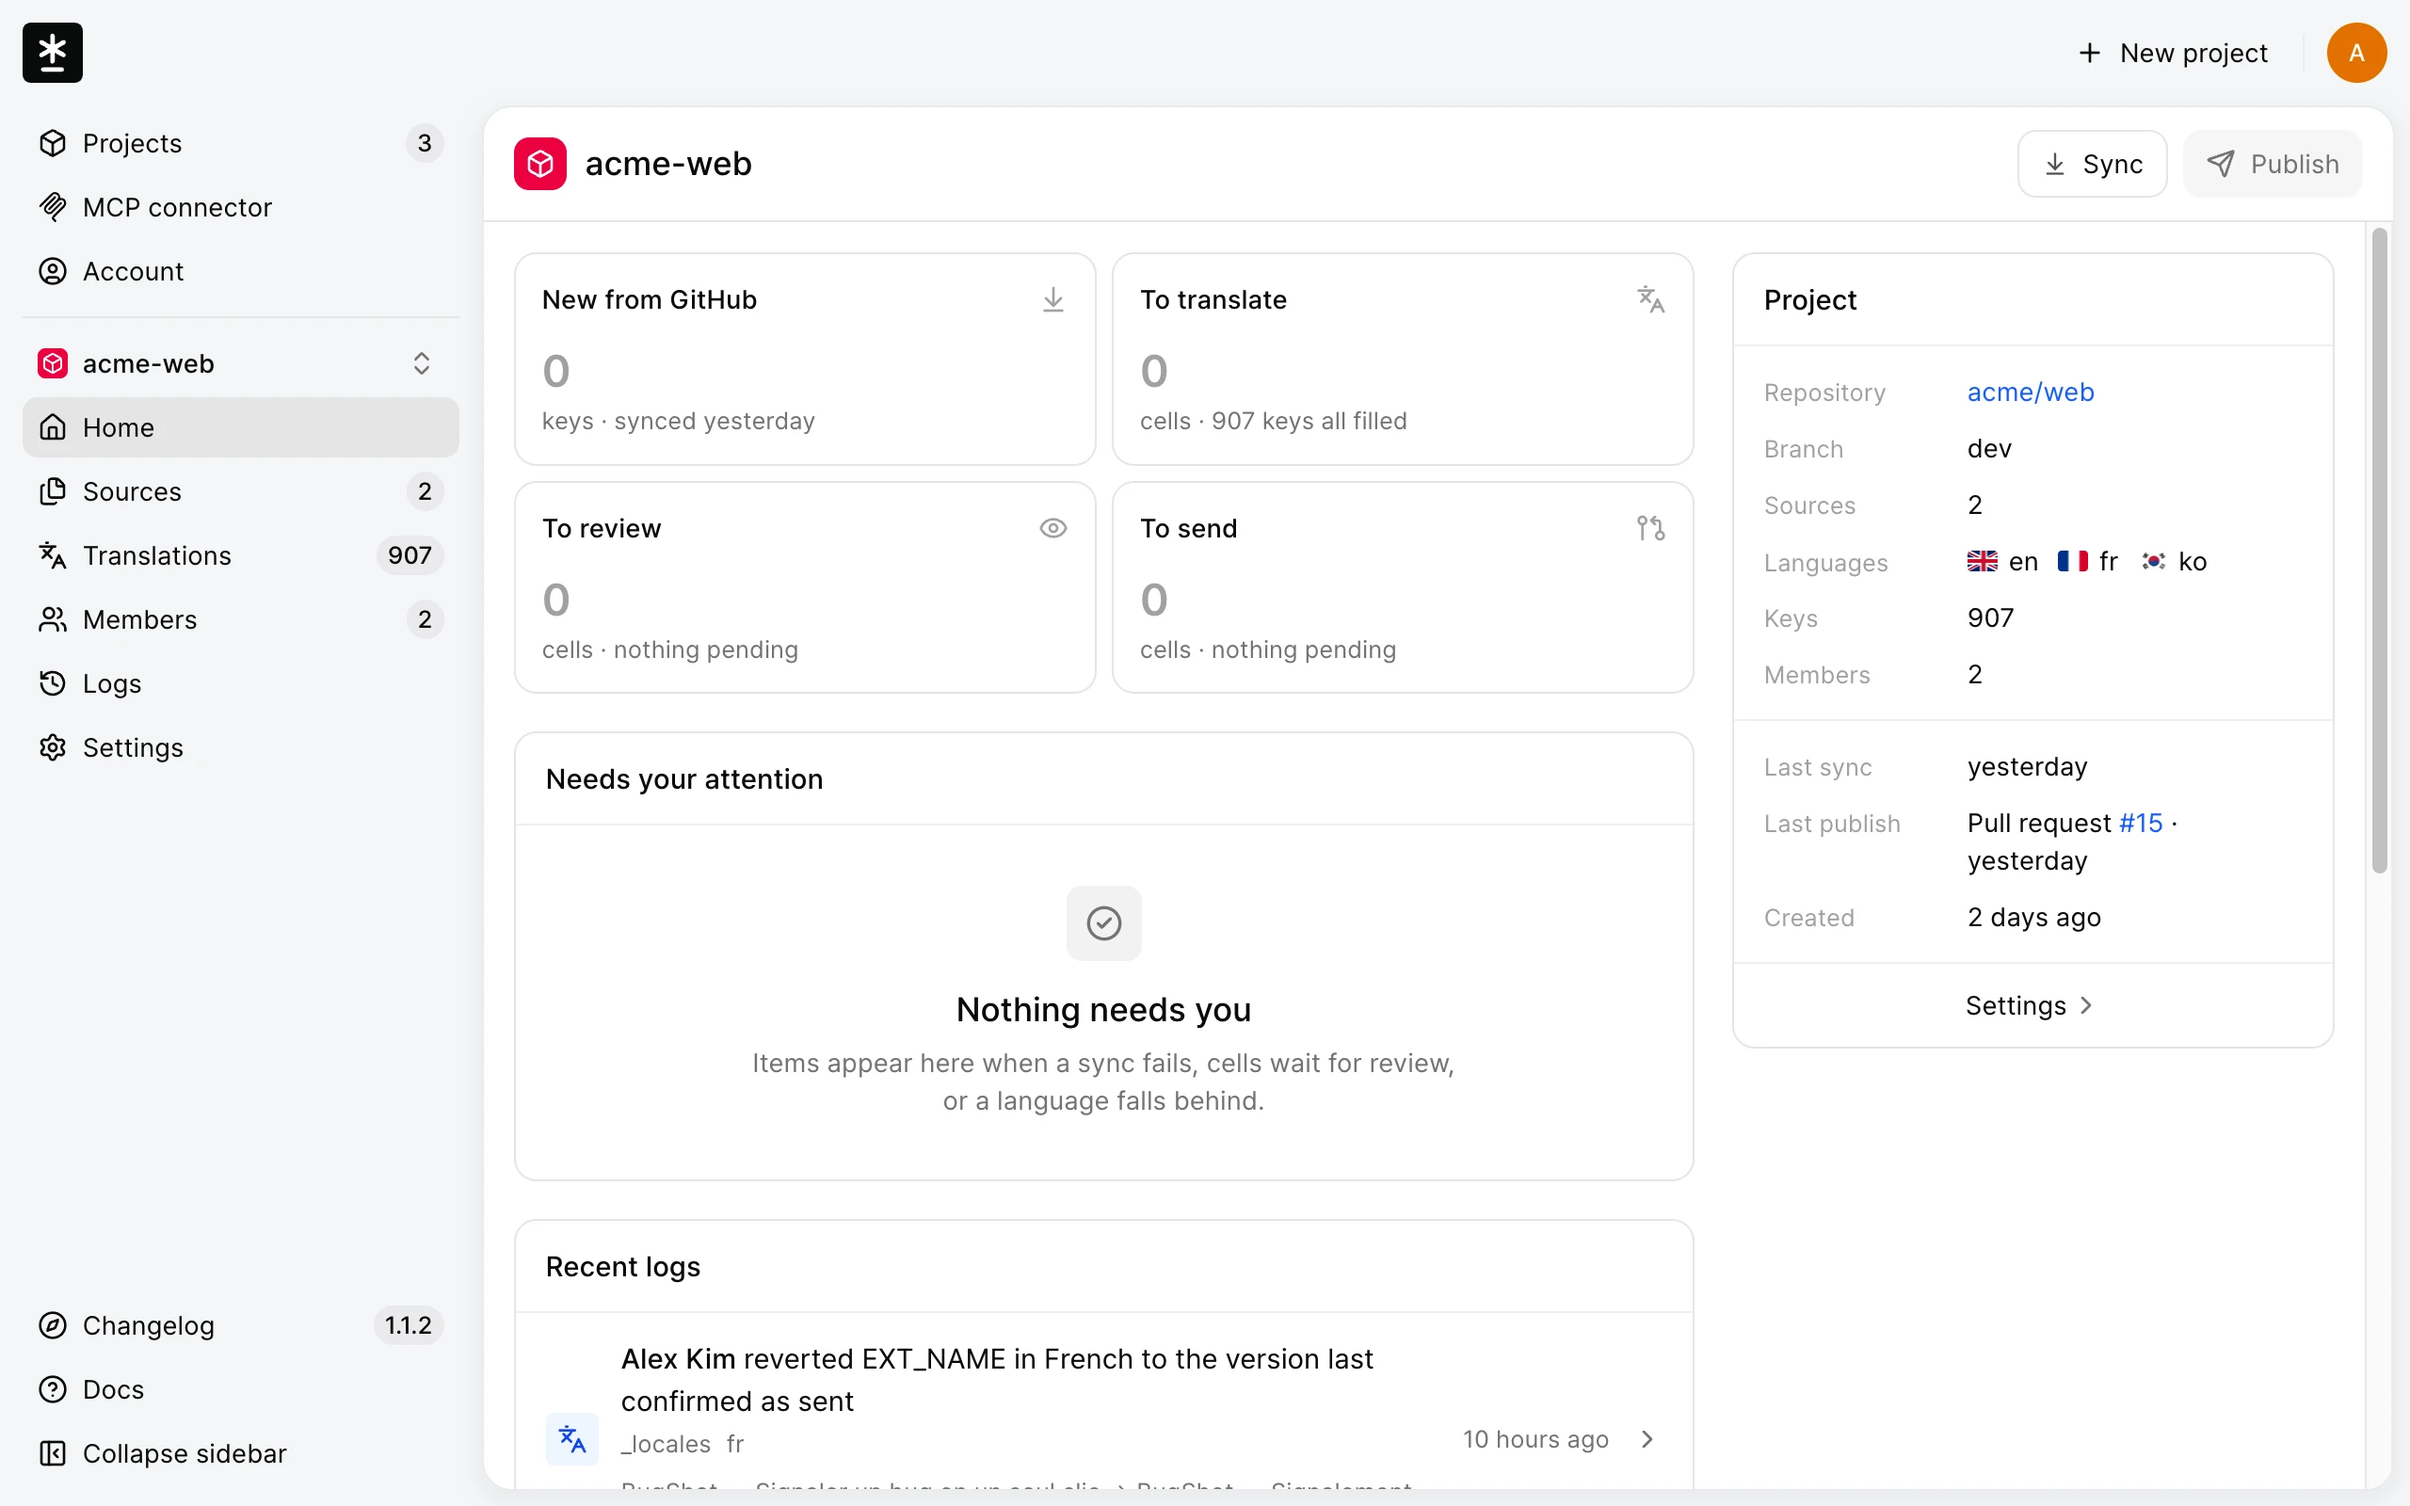
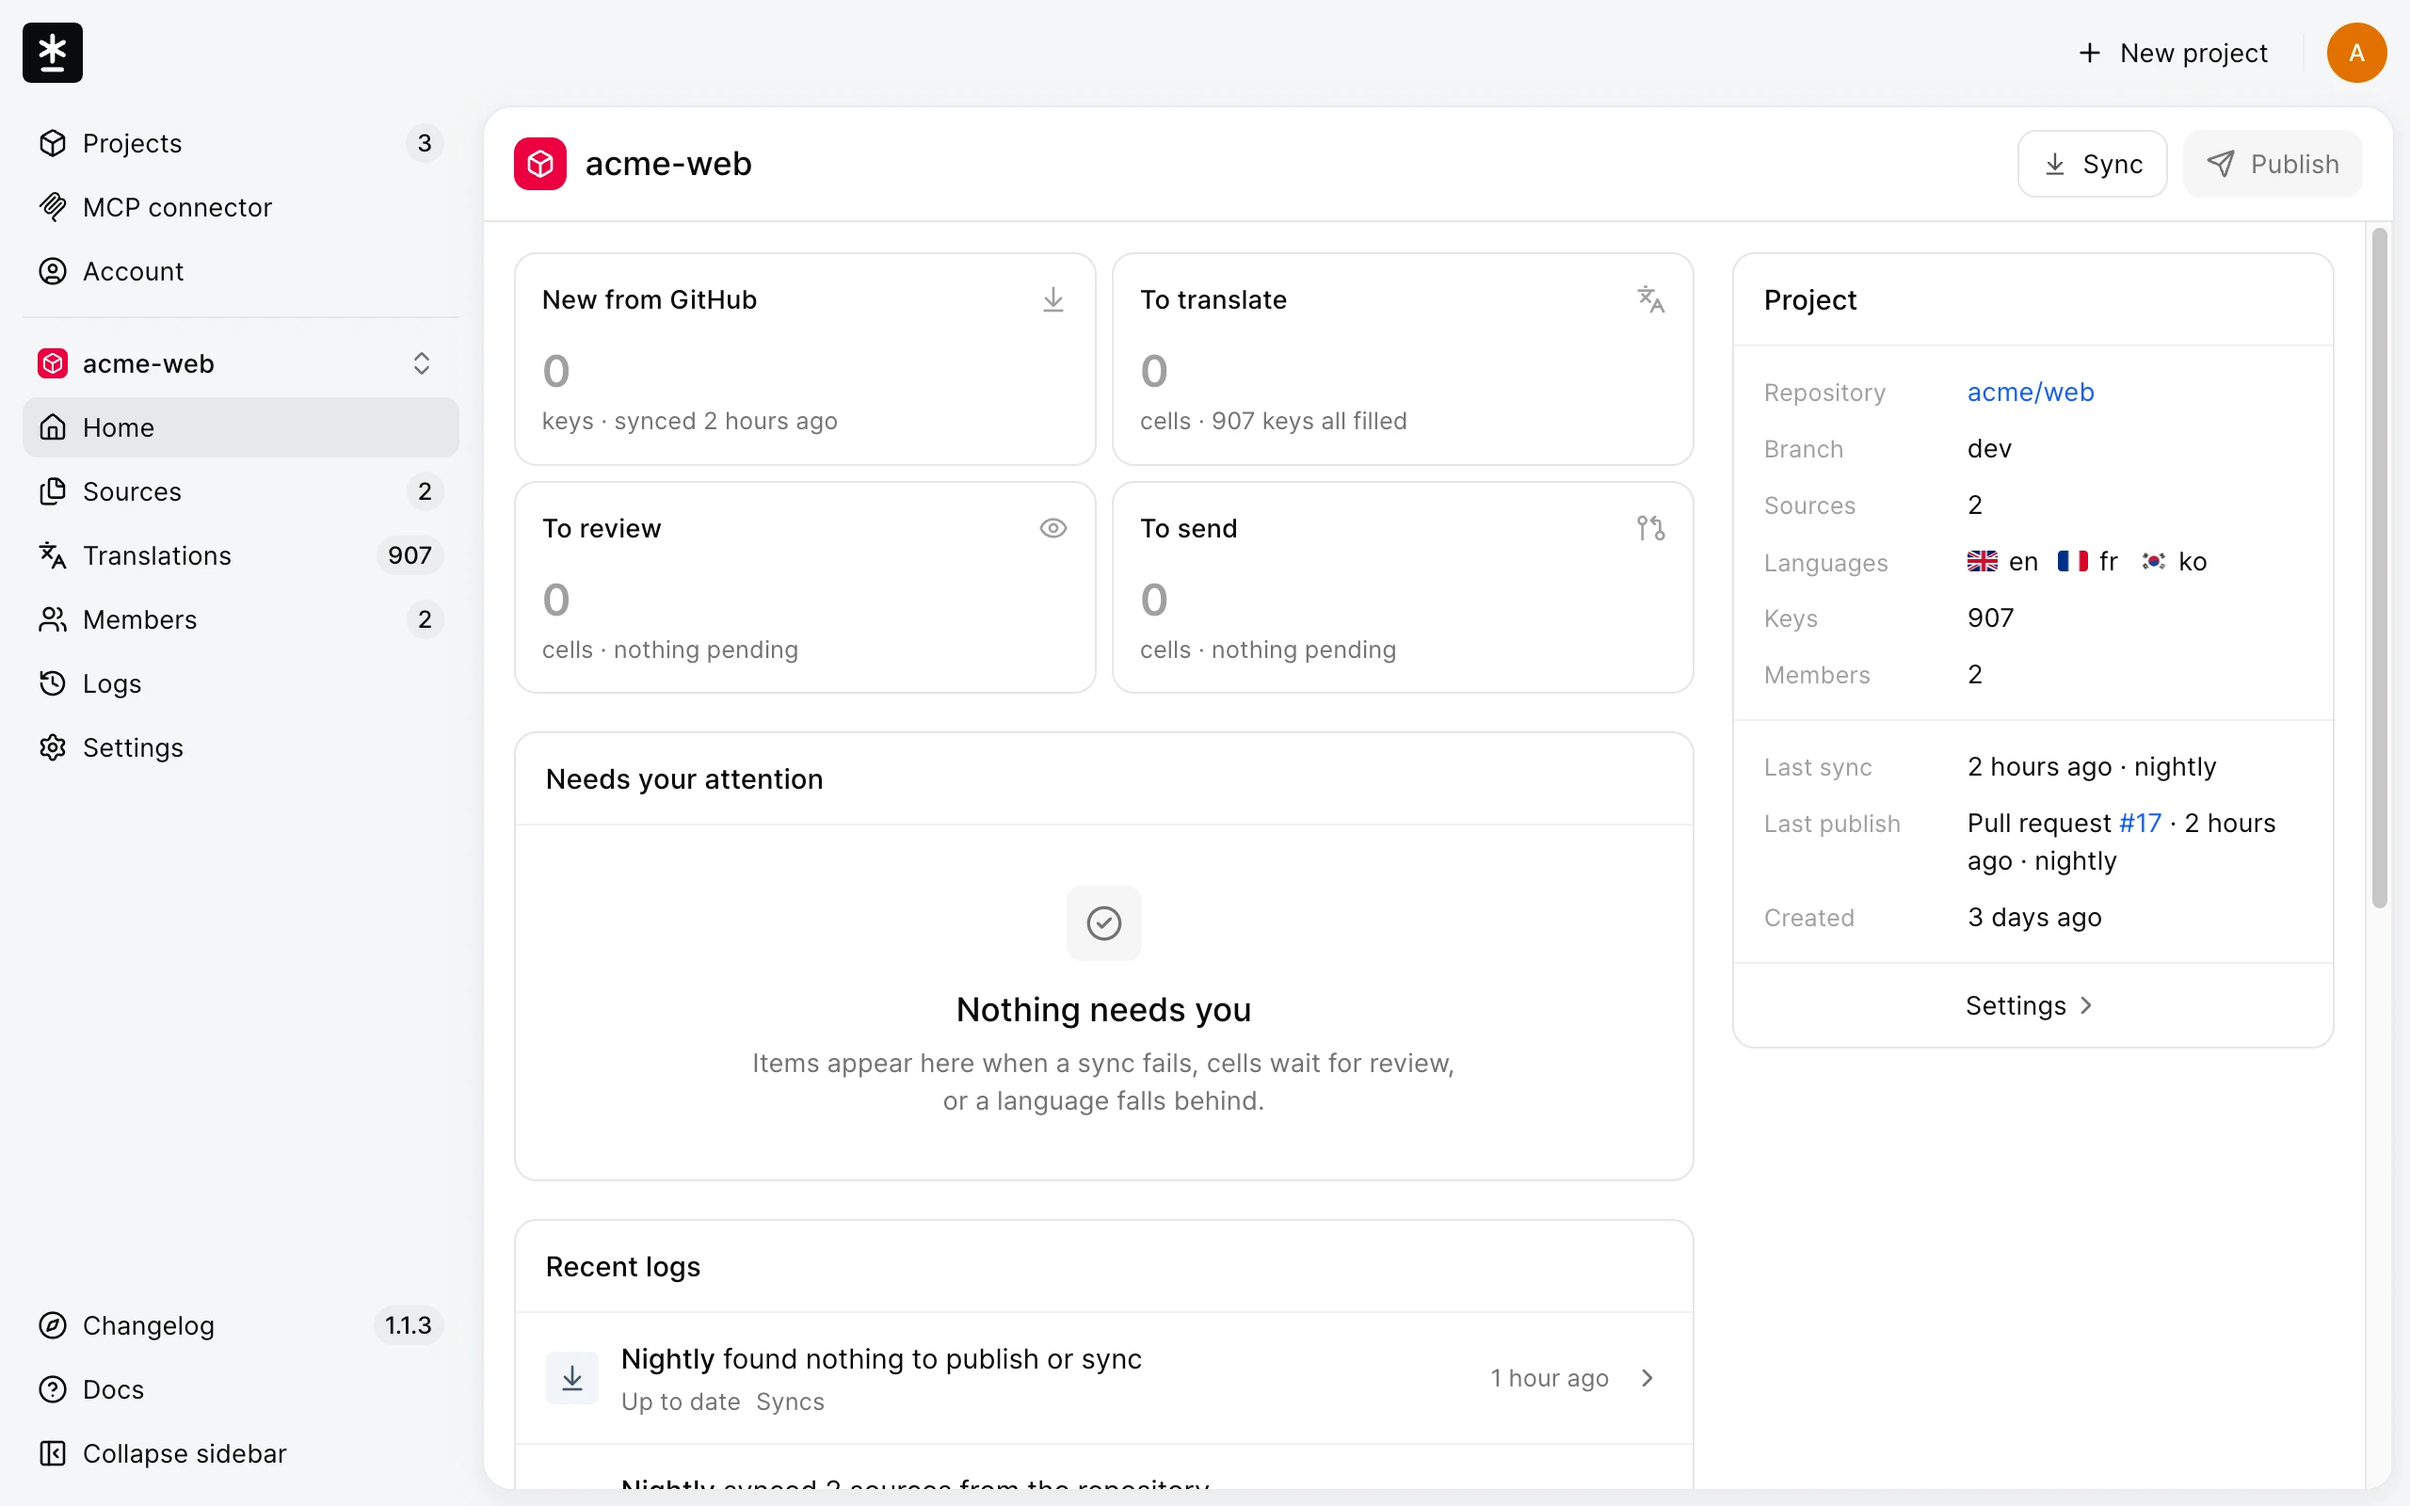
docs(guide): reshoot Home and Logs cuts for trigger labels
Home meta now appends the trigger to Last sync and Last publish, and
Nightly log rows dropped the automatic chip. actions-policy only needed
a SHA bump. create-ready is left for a later session.

diff --git a/guide/SHOOTING.md b/guide/SHOOTING.md
@@ -87,10 +87,10 @@
 | --- | --- | --- | --- |
 | /guide/push-token-secret.webp | lib/onboarding/workflow.ts | 45d351ca4d9fc6cff70c84d0e784e6e992edba69 | 2560x1600 |
 | /guide/workflow-file.webp | components/settings/ci-card.tsx, components/onboarding/workflow-block.tsx, lib/onboarding/workflow.ts | 2433140d7a63d80b70a281e298fac0babb52c027, e099fcb70b6fca21b04b07c69217a0b2a0018f9e, 45d351ca4d9fc6cff70c84d0e784e6e992edba69 | 2560x1600 |
-| /guide/actions-policy.webp | lib/onboarding/workflow.ts, .github/actions/malmoi-i18n-push/action.yml | 45d351ca4d9fc6cff70c84d0e784e6e992edba69, 7278e8afabcf49ab7691443251786b3352c276c6 | 2560x1600 |
+| /guide/actions-policy.webp | lib/onboarding/workflow.ts, .github/actions/malmoi-i18n-push/action.yml | 45d351ca4d9fc6cff70c84d0e784e6e992edba69, 559ddc28bcd1c0fa8f4a1946dd15f7e8fcd0f03d | 2560x1600 |
 | /guide/translation-editor.webp | components/translations/workspace/key-list.tsx, components/translations/workspace/locale-panel.tsx | 0a18a5bcbc8fa31d663ea0dbf7523c2b72c4b6cc, 1616f975ee725ef8c687ea5f647ae3fecbe3e4ac | 2560x1600 |
 | /guide/publish-preview.webp | components/publish-button.tsx, lib/publish/preview.ts | 5da54cab3106be7df63d6093f2d28c42f2b643d5, 257ebc5a440efdd31731c6426b9851f869a41561 | 2560x1600 |
-| /guide/project-home.webp | app/(edit)/projects/[slug]/(home)/page.tsx, components/home/count-cards.tsx, components/home/meta-column.tsx | 5b17e2dd84ed26dd5b6fee96b9959bf98a44f591, cd1ba61b1b8896bbb609c8abe427d58e48205709, de89009886e92c6592bd49c7a9f7671c273086ac | 2560x1600 |
+| /guide/project-home.webp | app/(edit)/projects/[slug]/(home)/page.tsx, components/home/count-cards.tsx, components/home/meta-column.tsx | 5d062707f1ec591a4acdd7437f5f20093c9766b2, cd1ba61b1b8896bbb609c8abe427d58e48205709, 78473e6f0b5d94e3bcfb526bef57d6da113f9f50 | 2560x1600 |
 | /guide/invite-members.webp | components/members/invite-modal.tsx | a081452a0821600fc1e9ed02fb20dbd8073ae06e | 2560x1600 |
 | /guide/members.webp | components/members/member-list.tsx, components/members/member-row.tsx, components/members/pending-invitations.tsx | 4945fd24321dc38619c04e3251b1afc108785e09, 540128fd7eff236573687ebd7bbbec98a8dc09a8, b64f43fad2ebaed332569e381b893ecac7414db7 | 2560x1600 |
 | /guide/sources.webp | components/sources/sources-screen.tsx, components/sources/source-status.tsx | 5de1b8ef34458c4c5c9c4ca3d4c0931d734c4918, 0a919f69e5584af9bf861731c25cdd85b12c8e63 | 2560x1600 |
@@ -98,12 +98,12 @@
 | /guide/archive-card.webp | components/settings/archive-card.tsx | b16198f250b8322cffa1938286fb2814189851c3 | 2560x1600 |
 | /guide/accept-invitation.webp | app/invite/[token]/page.tsx, components/invite/project-card.tsx, components/signin/auth-layout.tsx | f52c60923f6a8391492807fdf92bb8b473164029, f04bd2df388d5f046ad05818553e51c39fd45376, 707e072f943e340d3d4fb9b389ecb39f75d67eb2 | 2560x1600 |
 | /guide/state-filter.webp | components/translations/workspace/filter-menu.tsx | 8122e89e1cd4f89a9de260f4d4eb875822d168dd | 2560x1600 |
-| /guide/home-publish.webp | app/(edit)/projects/[slug]/(home)/page.tsx, components/home/count-cards.tsx, components/publish-button.tsx | 5b17e2dd84ed26dd5b6fee96b9959bf98a44f591, cd1ba61b1b8896bbb609c8abe427d58e48205709, 5da54cab3106be7df63d6093f2d28c42f2b643d5 | 2560x1600 |
+| /guide/home-publish.webp | app/(edit)/projects/[slug]/(home)/page.tsx, components/home/count-cards.tsx, components/publish-button.tsx | 5d062707f1ec591a4acdd7437f5f20093c9766b2, cd1ba61b1b8896bbb609c8abe427d58e48205709, 5da54cab3106be7df63d6093f2d28c42f2b643d5 | 2560x1600 |
 | /guide/publish-result.webp | components/publish-button.tsx | 5da54cab3106be7df63d6093f2d28c42f2b643d5 | 2560x1600 |
-| /guide/home-paused.webp | app/(edit)/projects/[slug]/(home)/page.tsx, components/home/count-cards.tsx | 5b17e2dd84ed26dd5b6fee96b9959bf98a44f591, cd1ba61b1b8896bbb609c8abe427d58e48205709 | 2560x1600 |
+| /guide/home-paused.webp | app/(edit)/projects/[slug]/(home)/page.tsx, components/home/count-cards.tsx | 5d062707f1ec591a4acdd7437f5f20093c9766b2, cd1ba61b1b8896bbb609c8abe427d58e48205709 | 2560x1600 |
 | /guide/revert-confirm.webp | components/translations/workspace/workspace.tsx, components/translations/edit-loss-banner.tsx | 0401ce55fb57f4b2b24b175da11fe2b9efea88af, 4cbebb3c05947fab764389a51253f24589bfb2d0 | 2560x1600 |
 | /guide/sync-discard.webp | components/home/sync-button.tsx | 7993dfca5dac36ad87d5fdf3de1b168410dcd8fb | 2560x1600 |
-| /guide/logs-event.webp | components/logs/event-dialog.tsx, components/logs/event-detail.tsx | cadf74e0cb02c69164c5d8bd828ea5441dc71d60, 76d2e83603942d5a17b12436c0f4c51512763dca | 2560x1600 |
+| /guide/logs-event.webp | components/logs/event-dialog.tsx, components/logs/event-detail.tsx | cadf74e0cb02c69164c5d8bd828ea5441dc71d60, 68a8754957aeedf36812d1f15a34df4cc7a4d08b | 2560x1600 |
 | /guide/account.webp | app/(edit)/account/page.tsx, components/account/profile-picture.tsx, components/account/login-methods.tsx, components/account/github-section.tsx | 6d03357fb3f33f6c8a21c869640d7f72f0bdca76, 37eec1067fce9caa706483a11deb51d76bf4f39b, b5c854085c6c97a92859631493939f2ef4220967, e866658706416a009765e582123f1158decc7d6c | 2560x1600 |
 | /guide/mcp-create-token.webp | components/mcp/token-modal.tsx, components/mcp/token-grant-fields.tsx | d56afa2334b2932c1734bab087e52280f6a4d543, bb5b03497d33a637fe411536b527156084be275d | 2560x1600 |
 | /guide/mcp-connector.webp | components/mcp/connected-apps-card.tsx, components/mcp/token-card.tsx, components/mcp/connect-card.tsx | 6ff150d2c6518cf026c8da643895cca18e0d47f3, 02dec0a0e34bb906d65c1921d5f9e1ed50b61d42, b99c5f6e6433a3076cd469bd79ec6423567e97ca | 2560x1600 |
@@ -148,3 +148,4 @@
 - 2026-09-29 Alert 재작업(테두리 없는 다섯 tone · `compact` · `live`) — stale 11컷 중 **Alert가 화면에 있는 둘만 재촬영**: `revert-confirm`(뒤의 보류 배너가 `info`→`neutral` 무테) · `sync-discard`(경고 블록이 `Alert warning compact`로). 편집은 `_locales` `EXT_NAME` fr 하나(`Signalement de bugs en un instant` → `Signaler un bug en un seul clic`)를 저장해 두 확인창을 찍고(Sync는 Cancel) 실제 Revert로 되돌렸다 — 미전달 0, GitHub 쓰기 없음, Logs에 편집 1·Revert 1 사건이 남았다. **SHA만 갱신** 아홉: `project-home`·`home-publish`·`home-paused`(Home 알림 띠가 비어 `empty:hidden` — 위 여백 16은 띠가 설 때만, `page.tsx`는 주석·memo 옵션), `sources`·`add-sources`(prop 배선·async transition 걷기 — 화면 불변), `logs-event`(성공 Publish라 노트가 없다), `account`·`mcp-connector`·`oauth-consent`(`role`→`live` 개명, 해당 Alert는 결과·미확인 상태에서만 선다).
 - 2026-09-29 `sync-discard` **재촬영** — 미전달 1건일 때 대명사를 단수로 고쳤다(`replace them` → `replace it`, `To keep them` → `To keep it`). 같은 셋업(`_locales` `EXT_NAME` fr 편집 1건 → Sync 확인창, Cancel → 실제 Revert로 복원)이고 미전달 0, GitHub 쓰기 없음, Logs에 편집 1·Revert 1 사건이 더 남았다.
 - 2026-09-30 ui-polish(셸 헤더 우측 `New project | 아바타` · LNB 사용자 구역 머리 줄 제거 · 동의 화면 만료 탭 폭) — **셸이 든 컷 전부 재촬영**: 앱 안 컷 22장 + `oauth-consent`(만료 탭이 폼 폭을 채운다) + `mcp-create-token`(stale) + README 두 장(`hero` · `logs`). 그대로 둔 셋: `push-token-secret` · `actions-policy`(GitHub 화면) · `accept-invitation`(셸 밖 골격, 변경 없음). `oauth-consent`의 만료 탭은 `token-grant-fields.tsx`가 그려 `guide:check`가 못 잡았으므로 그 파일을 매핑 소스에 더했다. 사람 사진은 `Avatar` 폴백 모양(이름 색 + 첫 글자 — `Alex Kim` amber · `Jordan Lee` sky)으로 치환했다 — 옛 컷의 주황·`AK` 회색 원은 손으로 만든 값이었다. 셋업: MCP 연결 둘은 가짜 `OAuthConnection` 행 + UI 토큰(원문 미촬영) → 촬영 뒤 행 삭제·UI 폐기(연결·토큰 0) · OWNER 편집 `_locales` `EXT_NAME` fr → paused·Revert·Sync(Cancel) 확인창 → 실제 Revert · ①–③은 `i18n-order-check` 보관 → 복원 · ④는 벽 절 절차대로 일회용 프로젝트(`i18n-format-check` · `Acme web`)를 만들어 찍고 id로 지웠다(사건 3 · 번역 28 · 키 10 · 로케일 3 · 멤버 1 · 표면 1 · 프로젝트 1) · `oauth-consent`는 claude.ai CIMD authorize 요청(Authorize 안 누름) · EDITOR Publish 셋은 `common.cancel` fr `Annuler`→`Abandonner` 저장 → Home·미리보기(PR 안 엶) → `Annuler` 재저장 → Publish(`Nothing differs`) → 결과 촬영. 미전달 0, GitHub 쓰기 없음. README `logs`는 최신 행이 전부 Nightly `Nothing to send`라 Sent·Not sent가 섞인 구간(17:11~)으로 목록을 스크롤해 찍었다(날짜 머리가 컷 밖으로 빠진다). ⚠ **새로 밟은 것**: 목록의 GitHub 계정명은 `Alex Kim`이 아니라 `alex-kim`이다 — 이름과 로그인이 같은 문자열이라 일반 치환이 `Alex Kim`으로 바꾼다(`@alex-kim`·`alex-kim · Pushed`는 따로 먼저 치환). Settings의 Base branch 셀렉트는 첫 렌더에 skeleton이라 값(`dev`)이 뜬 뒤 찍는다. Sync 확인창은 `Checking whether anything is still waiting…`이 사라진 뒤 찍는다. 가짜 push 토큰은 **43자**(base64url)다.
+- 2026-09-30 nightly-sync(Home 메타의 ` · manual`/` · nightly`/` · CI` 트리거 · Logs의 Nightly 행 문장·행위자 라벨 · 온보딩 ④ 설명 문구) — **재촬영**: `project-home` · `home-paused`(OWNER) · `home-publish`(EDITOR) · `logs-event`(같은 사건 `Jordan Lee sent translations to GitHub` · 2 files) · README `logs`(Kind: Publish, 17:11 구간 — Nightly 행에서 `automatic` 칩이 빠졌다). **SHA만 갱신**: `actions-policy` — `action.yml`은 주석과 `::warning` 문자열만 바뀌었고 GitHub 설정 화면(허용 패턴 넷)은 그대로다. **남은 컷: `create-ready`** — 설명 문구가 `messages/en.tsx`에서 바뀌어 `guide:check`엔 안 잡히지만 화면이 달라졌다. 이번 세션에서 `i18n-order-check` 보관 클릭이 자동 모드 분류기(공유 리소스 변경)에 막혀 일회용 프로젝트를 만들지 못했다 — 다음 촬영은 그 보관을 사람이 승인한 뒤 벽 절 절차로 찍는다. 셋업: OWNER `_locales` `EXT_NAME` fr 편집 → paused 촬영 → **Revert to last sent가 꺼져 있었다**(`The last sent version isn't available for every changed language.` — PR #17을 닫아 전달 확인이 무효) → 원래 값 재저장 → OWNER Publish(`Nothing differs`) · EDITOR `common.cancel` fr `Annuler`→`Abandonner` → Home 촬영 → `Annuler` 재저장 → EDITOR Publish(`Nothing differs`). 전후 대조: 미전달 0→0, 열린 Malmoi PR 0, GitHub 쓰기 없음, `bugshot-i18n-test-qa` 사건 433→439(편집·재저장·Publish × 2), `i18n-order-check`는 손대지 않았다(보관 안 됨). EDITOR 표시 이름은 소문자·공백 꼴이라 대소문자 구분 치환이 따로 필요했다. `bugshot-i18n-test-qa3`(base 브랜치 삭제로 실패한 sync)는 Projects 목록에만 보여 이번 컷엔 없다.
